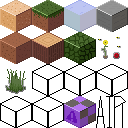
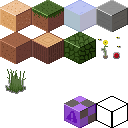
player and broken infinite world gen

diff --git a/main.go b/main.go
@@ -13,7 +13,7 @@ import (
 
 type Game struct {
 	World               World
-	Camera              [2]int
+	Camera              [2]float32
 	HasInitiatedUpdate  bool
 	HasInitiatedDraw    bool
 	Frames              int
@@ -25,6 +25,7 @@ type Game struct {
 	CurrentChunk        [2]int
 	ChunkSize           int
 	ChunkDepth          int
+	Player              Player
 }
 
 func (g *Game) Layout(outsideWidth, outsideHeight int) (int, int) {
@@ -38,33 +39,32 @@ func (game *Game) Update() error {
 
 	// INPUT
 
-	// camera movement
+	// player movement
 	if ebiten.IsKeyPressed(ebiten.KeyW) {
-		game.Camera[1] += cameraMoveSensitivity
+		game.Player.Velocity[1] += .1
 	}
 	if ebiten.IsKeyPressed(ebiten.KeyS) {
-		game.Camera[1] -= cameraMoveSensitivity
+		game.Player.Velocity[1] -= .1
 	}
 	if ebiten.IsKeyPressed(ebiten.KeyA) {
-		game.Camera[0] += cameraMoveSensitivity
+		game.Player.Velocity[0] += .1
 	}
 	if ebiten.IsKeyPressed(ebiten.KeyD) {
-		game.Camera[0] -= cameraMoveSensitivity
+		game.Player.Velocity[0] -= .1
+	}
+	if ebiten.IsKeyPressed(ebiten.KeySpace) {
+		game.Player.Velocity[2] -= .1
+	}
+	if ebiten.IsKeyPressed(ebiten.KeyShiftLeft) {
+		game.Player.Velocity[2] += .1
 	}
 
 	// toggle depth shift
-	if ebiten.IsKeyPressed(ebiten.KeySpace) {
+	if ebiten.IsKeyPressed(ebiten.KeyBackslash) {
 		game.UsingDepthShift = true
 	} else {
 		game.UsingDepthShift = false
 		game.DepthShift = 0
-	}
-
-	// make camera move faster
-	if ebiten.IsKeyPressed(ebiten.KeyShiftLeft) {
-		cameraMoveSensitivity = 8
-	} else {
-		cameraMoveSensitivity = 4
 	}
 
 	// reload world
@@ -73,7 +73,7 @@ func (game *Game) Update() error {
 		// regenerate the chunk and its neighbors
 		for x := -1; x < 2; x++ {
 			for y := -1; y < 2; y++ {
-				game.World.generateChunk([2]int{x + game.CurrentChunk[0], y + game.CurrentChunk[1]}, game.ChunkSize, game.ChunkSize, game.ChunkDepth, defaultVoxelDictionary)
+				game.World.generateChunk([2]int{x + game.CurrentChunk[0], y + game.CurrentChunk[1]}, game.World.ChunkSize, game.World.ChunkSize, game.World.ChunkDepth, defaultVoxelDictionary)
 			}
 		}
 	}
@@ -95,6 +95,13 @@ func (game *Game) Update() error {
 		}
 	}
 
+	// update player
+	game.Player.Update(game.World)
+
+	// get current chunk based on player position
+	game.CurrentChunk[0] = int(game.Player.Position[0] / float32(game.World.ChunkSize))
+	game.CurrentChunk[1] = int(game.Player.Position[1] / float32(game.World.ChunkSize))
+
 	return nil
 }
 
@@ -102,8 +109,8 @@ func (game *Game) Draw(screen *ebiten.Image) {
 	// initiate
 	if !game.HasInitiatedDraw {
 		game.HasInitiatedDraw = true
-		game.Camera[0] = screen.Bounds().Dx() / 2
-		game.Camera[1] = screen.Bounds().Dy() / 2
+		game.Camera[0] = float32(screen.Bounds().Dx() / 2)
+		game.Camera[1] = float32(screen.Bounds().Dy() / 2)
 	}
 
 	// fill background
@@ -111,33 +118,43 @@ func (game *Game) Draw(screen *ebiten.Image) {
 
 	// render the chunks
 	var blocksRendered int
-	for x := -1; x < 2; x++ {
-		for y := -1; y < 2; y++ {
-			chunk, exists := game.World.Chunks[[2]int{x + game.CurrentChunk[0], y + game.CurrentChunk[1]}]
+	for x := game.CurrentChunk[0] - 1; x < game.CurrentChunk[0]+2; x++ {
+		for y := game.CurrentChunk[1] - 1; y < game.CurrentChunk[1]+2; y++ {
+			chunk, exists := game.World.Chunks[[2]int{x, y}]
 			if exists {
 				// get screen position of the top voxel in the chunk
 				screenX, screenY := getScreenPosition(
-					x*game.ChunkSize,
-					y*game.ChunkSize,
+					(x)*game.World.ChunkSize,
+					(y)*game.World.ChunkSize,
 					0,
 					game.Camera[0],
 					game.Camera[1],
 					game.DepthShift,
 				)
 				// render
-				blocksRendered += chunk.Render(screen, screenX, screenY, game.DepthShift)
+				blocksRendered += chunk.Render(screen, float32(screenX), float32(screenY), game.DepthShift)
 			} else {
 				// create chunk
-				log.Printf("Creating chunk at %d, %d ...", x+game.CurrentChunk[0], y+game.CurrentChunk[1])
-				game.World.generateChunk([2]int{x + game.CurrentChunk[0], y + game.CurrentChunk[1]}, game.ChunkSize, game.ChunkSize, game.ChunkDepth, defaultVoxelDictionary)
+				log.Printf("Creating chunk at %d, %d ...", x, y)
+				game.World.generateChunk([2]int{x, y}, game.World.ChunkSize, game.World.ChunkSize, game.World.ChunkDepth, defaultVoxelDictionary)
 				log.Printf("Done!\n")
 			}
 		}
 	}
 
+	// render the player
+	game.Player.Render(screen, game.DepthShift)
+
+	// player screen position
+	screenX, screenY := game.Player.getScreenPosition(game.DepthShift)
+
+	// change camera position to have player in the center
+	game.Camera[0] = screenX
+	game.Camera[1] = screenY
+
 	// gui/text
 	drawString(screen, "Isomicraft Infdev", 0, 10)
-	drawString(screen, fmt.Sprintf("Camera: %d, %d", game.Camera[0], game.Camera[1]), 0, 22)
+	drawString(screen, fmt.Sprintf("Player Position: %f, %f, %f", game.Player.Position[0], game.Player.Position[1], game.Player.Position[2]), 0, 22)
 	drawString(screen, fmt.Sprintf("Focused Chunk: %d, %d", game.CurrentChunk[0], game.CurrentChunk[1]), 0, 34)
 	drawString(screen, fmt.Sprintf("FPS: %f TPS: %f", game.ActualFPS, ebiten.ActualTPS()), 0, 46)
 	drawString(screen, fmt.Sprintf("Blocks Rendered: %d", blocksRendered), 0, 58)
@@ -171,14 +188,28 @@ func main() {
 		ChunkSize:          32,
 		ChunkDepth:         64,
 	}
+
+	// init render
 	initRender()
+
+	// init world
 	log.Println("World initializing ...")
 	game.World = World{
-		Chunks: make(map[[2]int]Chunk),
-		Seed:   4311080085,
+		Chunks:     make(map[[2]int]Chunk),
+		Seed:       4311080085,
+		ChunkSize:  32,
+		ChunkDepth: 64,
 	}
 	game.World.Initalize(4311080085)
 	log.Println("Done!")
+
+	// init player
+	game.Player = Player{
+		Position: [3]float32{0, 0, 0},
+		Velocity: [3]float32{0, 0, 0},
+		Drag:     [3]float32{.9, .9, .9},
+		Texture:  "Default",
+	}
 
 	// run the game
 	if err := ebiten.RunGame(game); err != nil {

diff --git a/player.go b/player.go
@@ -1,0 +1,73 @@
+package main
+
+import (
+	"image"
+
+	"github.com/hajimehoshi/ebiten/v2"
+	"github.com/hajimehoshi/ebiten/v2/ebitenutil"
+)
+
+// player texture atlas
+var playerTextureAtlas, _, pErr = ebitenutil.NewImageFromFile("player_atlas.png")
+
+// player texture map
+// player sprites are 32x48 pixels.
+var playerTextureMap = map[string][4]int{
+	"Default": [4]int{0, 0, 32, 48},
+}
+
+// Player, contains information about a player.
+type Player struct {
+	Position [3]float32
+	Velocity [3]float32
+	Drag     [3]float32
+	Texture  string
+}
+
+var Gravity float32 = 0.01
+
+func (player *Player) Update(world World) {
+
+	// move the player
+	player.Position[0] += player.Velocity[0]
+	player.Position[1] += player.Velocity[1]
+	player.Position[2] += player.Velocity[2]
+
+	// drag
+	player.Velocity[0] *= player.Drag[0]
+	player.Velocity[1] *= player.Drag[1]
+	player.Velocity[2] *= player.Drag[2]
+
+	// gravity
+	//player.Velocity[2] -= Gravity
+
+	// check if the player is on the ground (on top of a voxel)
+	var playerVoxelPosition = [3]int{int(player.Position[0]), int(player.Position[1]), int(player.Position[2])}
+	voxel, _ := world.GetVoxel(playerVoxelPosition[0], playerVoxelPosition[1], playerVoxelPosition[2])
+	if voxel.Name != "Air" {
+		player.Velocity[2] = 0 // stop falling
+		// move the player to the top of the ground voxel
+		player.Position[2] = float32(playerVoxelPosition[2])
+	}
+}
+
+// get screen position of the player
+func (player *Player) getScreenPosition(depthShake float32) (screenX, screenY float32) {
+	screenX = ((player.Position[0] - player.Position[1]) * float32(tileWidth) / 2)
+	// depth shake
+	if depthShake != 0 {
+		screenX += (float32(depthShake) * float32(player.Position[0]+player.Position[1]) / 2)
+	}
+	screenY = ((player.Position[0]+player.Position[1])*float32(tileHeight)/4 - (player.Position[2] * float32(tileHeight) / 2))
+	return
+}
+
+func (player *Player) Render(screen *ebiten.Image, depthShake float32) {
+	// get the texture
+	var texture = playerTextureAtlas.SubImage(image.Rect(playerTextureMap[player.Texture][0], playerTextureMap[player.Texture][1], playerTextureMap[player.Texture][2], playerTextureMap[player.Texture][3])).(*ebiten.Image)
+
+	// render
+	op := &ebiten.DrawImageOptions{}
+	op.GeoM.Translate(float64(screen.Bounds().Dx()/2), float64(screen.Bounds().Dy()/2))
+	screen.DrawImage(texture, op)
+}

diff --git a/render.go b/render.go
@@ -34,18 +34,18 @@ func drawString(screen *ebiten.Image, output string, x, y int) {
 }
 
 // get the screen position of a voxel
-func getScreenPosition(x, y, z int, cameraX, cameraY int, depthShake float32) (screenX, screenY int) {
-	screenX = ((x - y) * tileWidth / 2) + cameraX
+func getScreenPosition(x, y, z int, cameraX, cameraY float32, depthShake float32) (screenX, screenY int) {
+	screenX = ((x - y) * tileWidth / 2) + int(cameraX)
 	// depth shake
 	if depthShake != 0 {
 		screenX += int(float32(depthShake) * float32(x+y) / 2)
 	}
-	screenY = ((x+y)*tileHeight/4 - z*tileHeight/2) + cameraY
+	screenY = ((x+y)*tileHeight/4 - z*tileHeight/2) + int(cameraY)
 	return
 }
 
 // render a chunk with a given camera position
-func (chunk Chunk) Render(screen *ebiten.Image, cameraX, cameraY int, depthShake float32) (blocksRendered int) {
+func (chunk Chunk) Render(screen *ebiten.Image, cameraX, cameraY float32, depthShake float32) (blocksRendered int) {
 	blocksRendered = 0
 	// iterate through voxels
 	for x := 0; x < chunk.Width; x++ {

diff --git a/voxel_structs.go b/voxel_structs.go
@@ -139,9 +139,21 @@ type World struct {
 	PerlinNoise            *perlin.Perlin
 	WaterLevel             int
 	SurfaceFeaturesBeginAt int
+	ChunkSize              int
+	ChunkDepth             int
 }
 
 // Return a Chunk from the world
-func (w *World) GetChunk(x, y int) Chunk {
-	return w.Chunks[[2]int{x, y}]
+func (w *World) GetChunk(x, y int) (chunk Chunk, exists bool) {
+	chunk, exists = w.Chunks[[2]int{x, y}]
+	return
+}
+
+// return the voxel at x, y, z (global)
+func (w *World) GetVoxel(x, y, z int) (voxel Voxel, exists bool) {
+	chunk, exists := w.GetChunk(x/w.ChunkSize, y/w.ChunkSize)
+	if exists {
+		voxel = chunk.GetVoxel(x%w.ChunkSize, y%w.ChunkSize, z)
+	}
+	return
 }

diff --git a/textures.go b/textures.go
@@ -5,7 +5,7 @@ import (
 )
 
 // texture atlas
-var groundTextureAtlas, _, err = ebitenutil.NewImageFromFile("block_atlas.png")
+var groundTextureAtlas, _, gErr = ebitenutil.NewImageFromFile("block_atlas.png")
 
 // default voxel dictionary/lookup table
 var defaultVoxelDictionary = VoxelDictionary{
